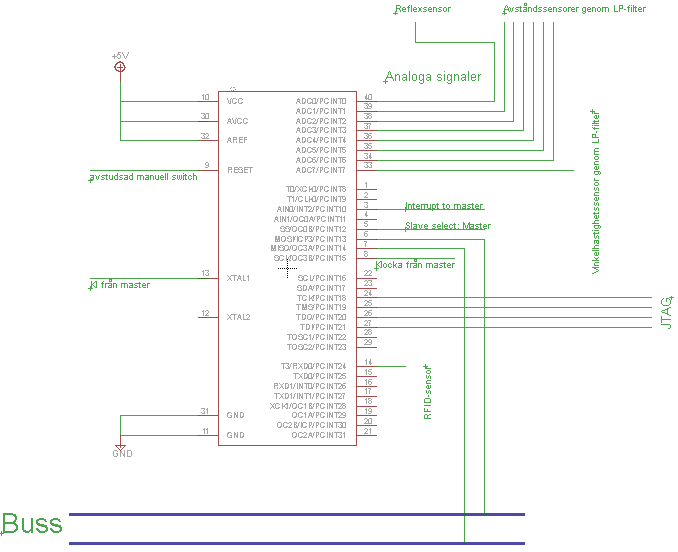
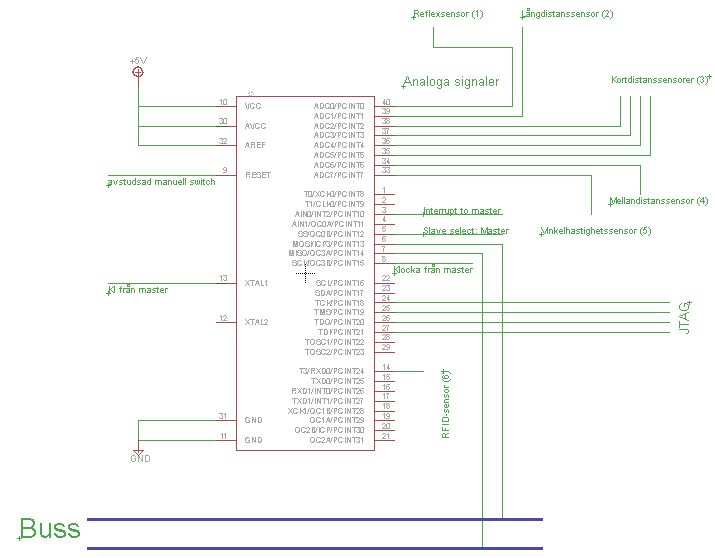
updaterat kopplingsschema och komponenttext på sensor

diff --git a/Skrivuppgifter/Teknisk_Dokumentation/tekdok.tex b/Skrivuppgifter/Teknisk_Dokumentation/tekdok.tex
@@ -564,14 +564,15 @@ Sensormodulens uppgift är att A/D-omvandla signaler från robotens avståndssen
 \end{figure}
 
 \subsection{Komponenter}
+Komponenterna är numrerade och finns att hitta i kopplingsschemat för sensormodulen ~\ref{fig:kopplingsensor}.
 \begin{itemize}
 	\item Systemchip - Atmel ATmega1284p
-	\item RFID-sensor - Par\-all\-ax-Read\-er\
-	\item Reflexsensor - SFH300
-	\item Avståndssensor för längre avstånd - GP\-2Y3A\-00\-3K\-0F
-	\item Avståndssensor för mellan avstånd - GP2Y0A02YK
-	\item 4 st avståndssensorer för kortare avstånd - GP\-2Y\-0A\-21\-YK
-	\item Vinkelhastighetssensor - MLX\-90\-609
+	\item RFID-sensor - Par\-all\-ax-Read\-er\ (6)
+	\item Reflexsensor - SFH300 (1)
+	\item Avståndssensor för längre avstånd - GP\-2Y3A\-00\-3K\-0F (2)
+	\item Avståndssensor för mellan avstånd - GP2Y0A02YK (4)
+	\item 4 st avståndssensorer för kortare avstånd - GP\-2Y\-0A\-21\-YK (3)
+	\item Vinkelhastighetssensor - MLX\-90\-609 (5)
 \end{itemize}
 ~\\
 
